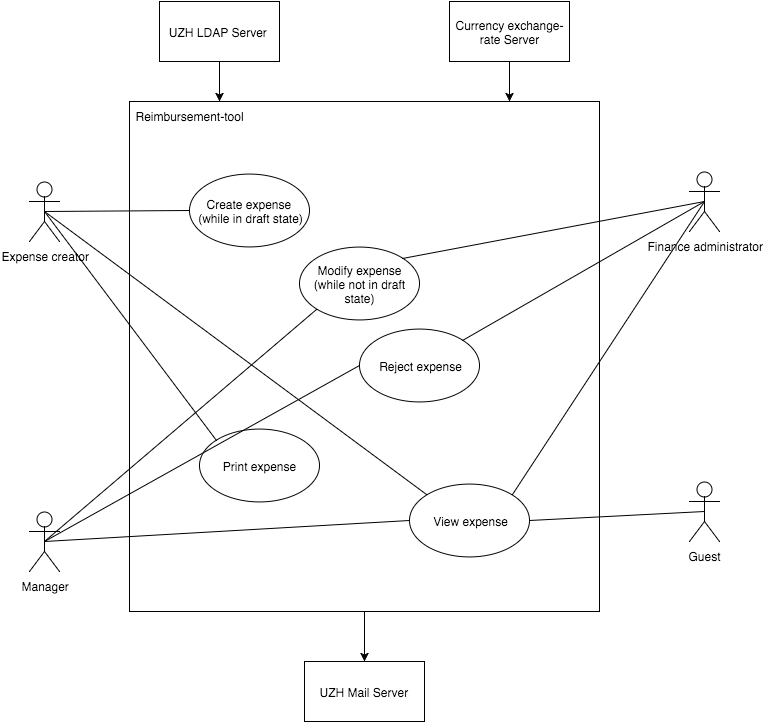
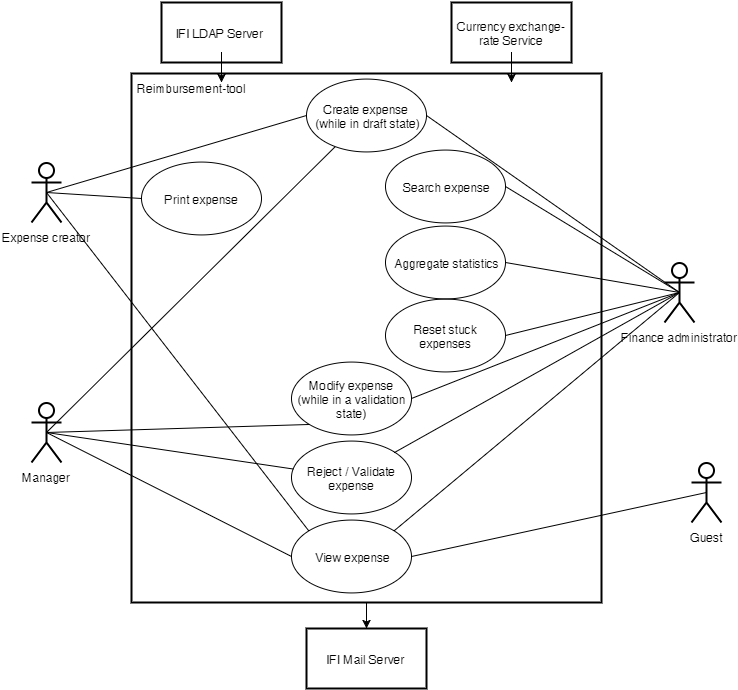
further editing (approach: context diagramm)

diff --git a/content/approach.tex b/content/approach.tex
@@ -2,17 +2,18 @@
 
 \section{System context}
 
-The reimbursement-tool interacts with multiple actors and other software interfaces. In this section those interactions will be defined in detail.
+The reimbursement-tool interacts with several user types as well as external software systems. In this section, these actors and software systems are introduced and resulting dependencies outlined.
 
-\subsection{Context diagram}
+\subsection{Actors}
 
-The context diagram (see figure \ref{fig:context-diagram}) describes the relationships between the system and its interrogators. \textit{Creator} of expenses such as normal employees or even professors can create expenses, view and print them. However, they are not allowed to modify an expense if it's not in draft state anymore. Only \textit{Managers} and the \textit{Finance administration} is allowed to \textit{Reject expenses} back to the \textit{Creator}. Besides rejecting, they are also allowed to modify expenses after submitted by the \textit{Creator}.\newline
-\textit{Guests} are allowed to view specific expenses. However, they need the 32-character long internal expense \textit{Uid} to gain access to view it. The \textit{Uid} is added on the printed expense document (see appendix \ref{sec:app-pdf} on page 2).\newline
-The following sub chapters will explain why interfaces to external service providers are necessary.
+The context diagram (see figure \ref{fig:context-diagram}) describes the relationships between the system and its users:
+ \textit{Expense Creators}, in short creators, such as assistants, professors and the administrative employees can create expenses, view and print them. However, they are only allowed to modify their own expense while it is in the draft state i.e has not been submitted to the creator's manager yet.  \textit{Managers}, such as professors, the department manager and the head of IFI and the \textit{Finance administration} are able to \textit{reject expenses} and send them back to the \textit{Creator}. Besides rejecting expenses, they are also able to modify them. Moreover, \textit{Managers} have also to provide for each expense a project describtion. \textit{Guests} are allowed to view specific expenses and related expense-items too. However, they need the 32-character long internal expense \textit{Uid} to gain access to the expense's details. The \textit{Uid} is added on the printed expense document (see appendix \ref{sec:app-pdf}).
 
-\subsubsection{UZH LDAP Server}
+\subsection{Services}
+The following sub chapters will explain what interfaces to external service providers are necessary.
 
-The system fetches user-data from the UZH-IFI LDAP server (see figure \ref{fig:context-diagram}). The user-data is necessary to synchronize the user database of the reimbursement-tool with the LDAP user-data. This will allow all users, registered at the IFI LDAP server to use the system without creating a new user name and password for login. For adjusting the LDAP settings see appendix \ref{subsubsec:ldap}.
+\subsubsection{IFI LDAP Server}
+The reimbursement-tool fetches user-data from the IFI LDAP server (see figure \ref{fig:context-diagram}) and stores it in the reimbursement-database. By being able to reuse their existing LDAP credentials, users get a comfortable way to login to the system and ensures at the same time that only authenticated users gain access to the system. Furthermore, the user's current roles and the user's manager are assigned automatically and in consequence correctly. For details about how to adjust the LDAP settings please refer to appendix \ref{subsubsec:ldap}.
 
 \begin{figure}[H]
     \centering
@@ -22,11 +23,12 @@ The system fetches user-data from the UZH-IFI LDAP server (see figure \ref{fig:c
 \end{figure}
 
 \subsubsection{Currency exchange-rate Server}
-
-To support the reimbursement-tool with accurate currency exchange-rates its necessary to access an external API providing that data. We decided to use \url{fixer.io} \cite{fixer} because it's free, it's updated daily, has a high responsibility and high availability rate. Currently the reimbursement-tool calls the API every time an exchange-rate is needed. For example if the user creates/modifies the amount of a receipt and uses a foreign currency.
+Often expenses accrue in foreign currencies but are paid back in CHF. To provide the user with a handy but still accurate way to calculate the historically accurate amount that has to be charged back, the reimbursement tool integrates a currency-exchange-rate-service. We decided to use \textit{fixer.io} \cite{fixer} because it is free, updated daily, provides low response times and a high availability. While the \textit{European Central Bank(ECB)}\cite{ecb} is used as data source, \textit{fixer.io} provides a queryable webservice for it. Currently, the reimbursement-tool calls the API every time an exchange-rate is needed. For example if the user specifies the amount of a receipt in a foreign currency. Since the API is called by our reimbursement-server, any cheating regarding exchange rates is prevented.
 
 \subsubsection{UZH Mail Server}
-To notify participants about outstanding expense and actions that need attention, it is necessary to add an automatic mailing service. Therefor the reimbursement-tool needs to have access to the UZH Mail Server. For more information about adjusting the e-mail settings see appendix \ref{subsubsec:email}.\newpage
+To notify users about actions that need their attention, the reimbursement-tool implements a notification algorithm. As soon as a new action has to be taken, the notification service adds the user's email address to the emailing list. Emails are sent out only three times a day (8am, 12pm and 5pm). At this points in time, the emailing list is processed by checking if there are still actions that need the user's attention. If that is the case, an email is sent out. If in the meantime the user took the required action, no email is sent out. If after an email sending no new action occurs that requires the user's attention, no reminder-email will be sent although there are remaining actions. For the actual email sending, the reimbursement-tool integrates the IFI Email Server. For more information about adjusting the e-mail settings please refer to appendix \ref{subsubsec:email}.
+
+\newpage
 
 
 \section{Architecture}

diff --git a/content/introduction.tex b/content/introduction.tex
@@ -2,11 +2,11 @@
 
 \section{Motivation}
 
-The actual reimbursement process at the University of Zurich is cumbersome and contains several media disruptions. Excel documents will be created, printed, reviewed, adapted, printed and reviewed again. Numeral iterations lead to waste of paper, time and energy. Furthermore travel expenses as well as expenses need to be printed, attached, scanned and reviewed by the financial administration of each IFI \cite{ifi} department. To reduce the efforts taken for reimbursement tasks, especially on creation and review actions during the process for all participants, a new Web-based portal will be developed.
+The current reimbursement process at the University of Zurich is cumbersome and contains several media disruptions: Excel forms have to be filled in, printed, reviewed, adapted, printed and reviewed again. Numerous iterations lead in consequence to a vast waste of paper and time. Furthermore, travel expenses as well as other expenses that are already present in a digital form need to be printed and attached to the other paper documents before being passed manually to the next instance in the process. As last step, the financial administration of the IFI reviews and signs the final form and sends it by postal-mail to the finance departement of the University of Zurich in order to trigger the actual cash-flow back to the employee \cite{ifi}. There, at the finance departement of UZH, the post-mail is scanned and safed as pdf-document.
 
 \section{Description of Work}
 
-The aim of this master-project is to design and implement a web-based portal and its back-end functionality to operate the travel reimbursement process with a centralized and database-driven approach. The work consists of the design of an information model, the relational database model for storing reimbursement data, and the respective new travel reimbursement form. Furthermore, the development of the web-based portal and applications for displaying and inputting reimbursementinformation, the supervisor’s approval site, the respective financial department’s portal, and the technical administrative web site are needed. Finally, the entire web portal and application, which shall maintain in the future the entirety of all IFI-based travel reimbursement information, shall also be tested in CSG-internal approach.
+The aim of this master-project is to design and implement a web-based portal and its back-end functionality to support the general reimbursement process with a centralized and database-driven approach. The work consists of the design of an information model, the relational database model for storing reimbursement data, and the respective new travel reimbursement form. Furthermore, the development of the web-based portal and applications for displaying and inputting reimbursementinformation, the supervisor’s approval site, the respective financial department’s portal, and the technical administrative web site are needed. Finally, the entire web portal and application, which shall maintain in the future the entirety of all IFI-based travel reimbursement information, shall also be tested in CSG-internal approach.
 
 
 \section{Project Scope}

diff --git a/content/conclusion.tex b/content/conclusion.tex
@@ -17,3 +17,8 @@ During the development of the reimbursement-tool a new version of the Pdf docume
 
 \subsection{Process integration to UZH}
 Currently the expenses will be printed and delivered to the Finance Administration of the University of Zurich in paper format. In turn they'll be scanned to be digitalized and archived at the Finance Administration of the University of Zurich. If this media disruption could be suspended, the overall process efficiency increases. The system is ready to integrate the last instance in the process - the Finance Administration of the University of Zurich - however, this will be an ongoing process that need to be dealt with. The system provides a guest-view to point out the value of the tool.
+
+
+\subsection{Further process improvements}
+- fadmins sollen das zeugs drucken und auch verschicken
+- am besten sollte gar nichts mehr verschickt werden, ausser das email für die finabteilung der uzh und das soll auch claudia machen nach dem signirern...

diff --git a/content/bibliography.tex b/content/bibliography.tex
@@ -22,6 +22,8 @@
 \bibitem{webcrypto} WebCrypto Key Discovery, \newline URL \url{http://www.w3.org/TR/webcrypto-key-discovery/}, last visit Dec. 12, 2015.
 \bibitem{node} Node.js, URL \url{https://nodejs.org/en/}, last visit Nov. 18, 2015.
 \bibitem{arx-signature} Learn about Digital Signatures and Electronic Signatures, URL \url{http://www.arx.com/learn/about-digital-signature/digital-signature-faq/}, last visit Dec. 5, 2015
+\bibitem{ecb} European Central Bank, URL
+\url{http://www.ecb.europa.eu/stats/exchange/eurofxref/html/index.en.html}, last visit Jan. 23, 2016
 
 
 
